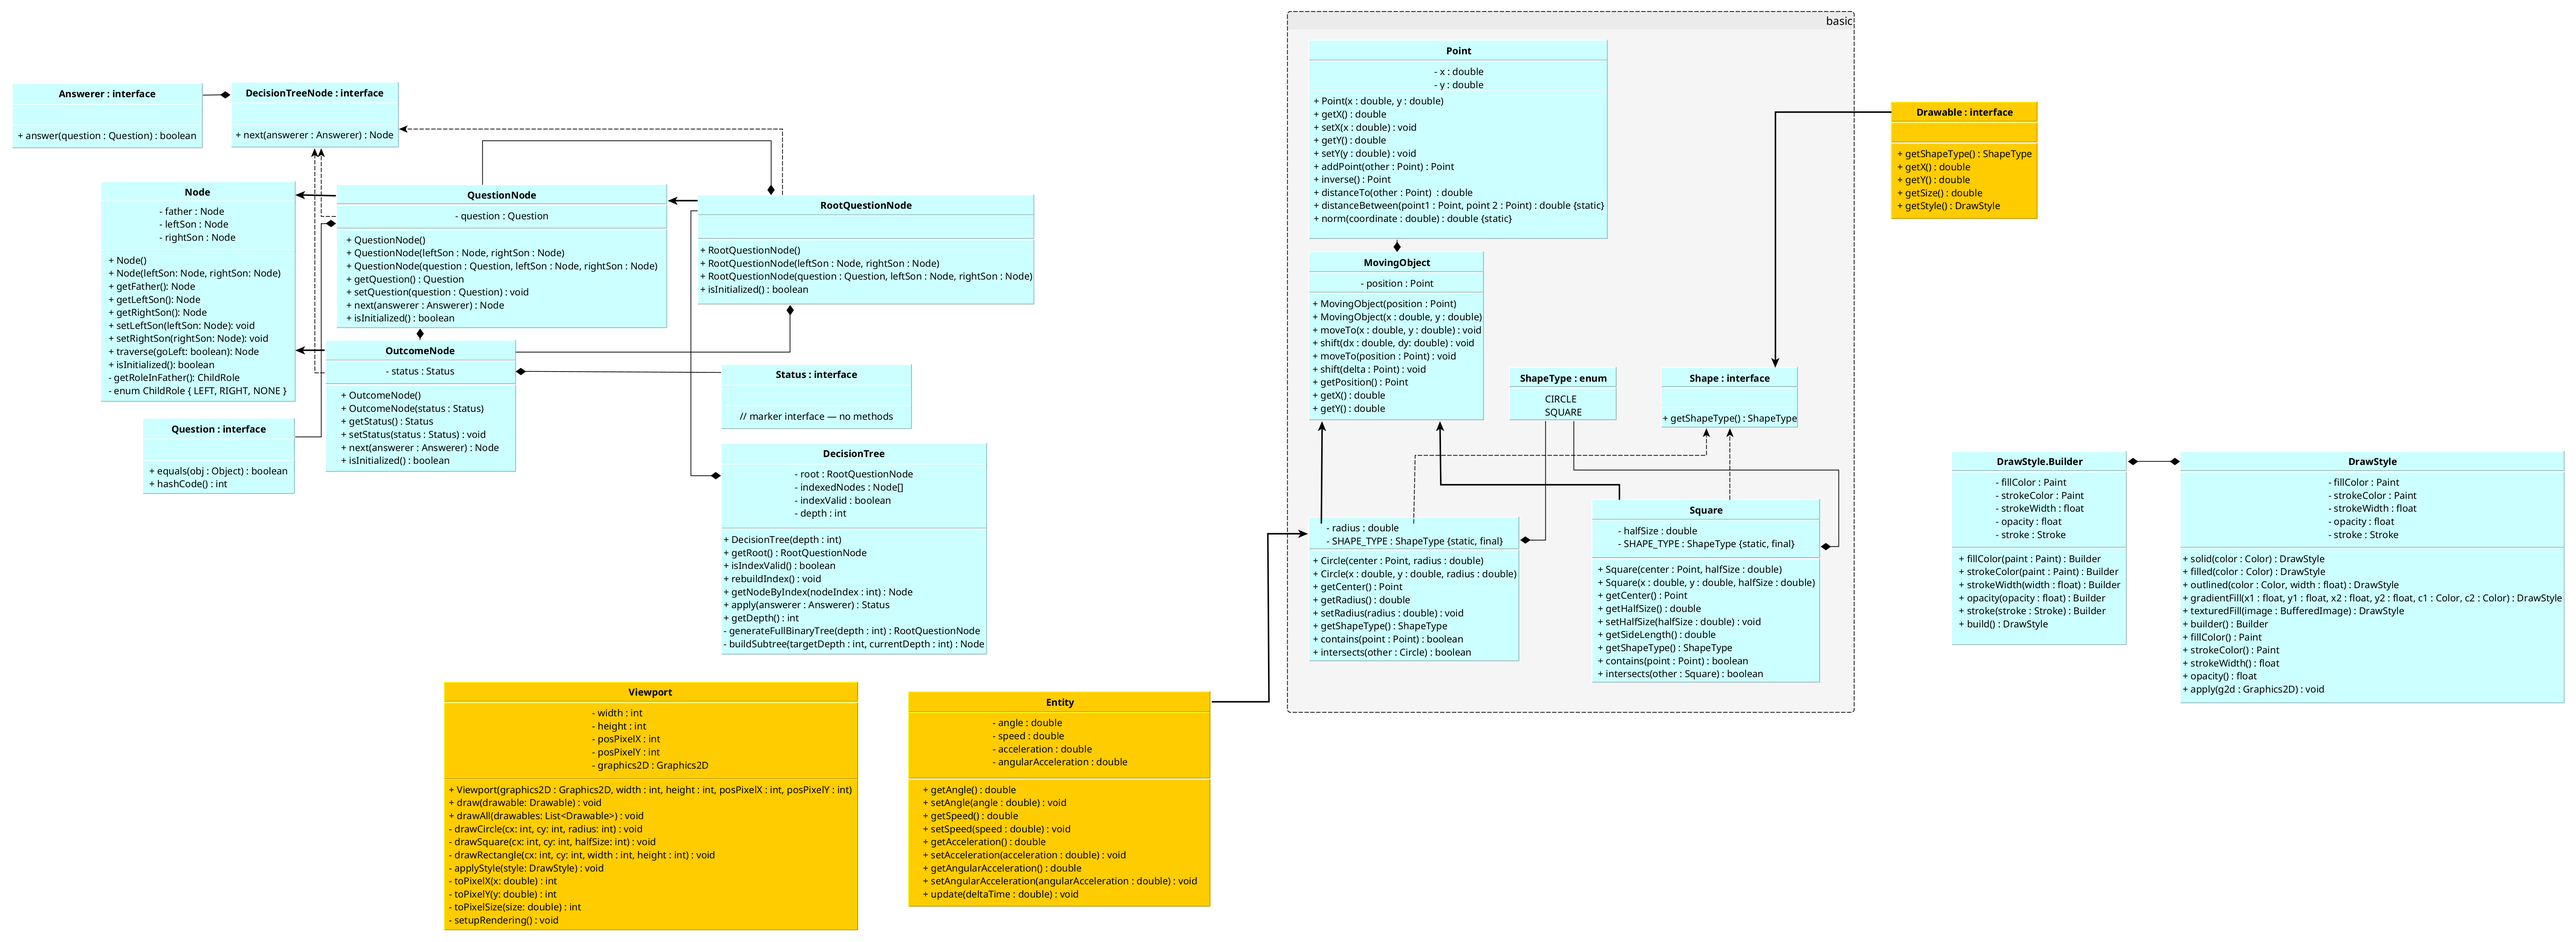
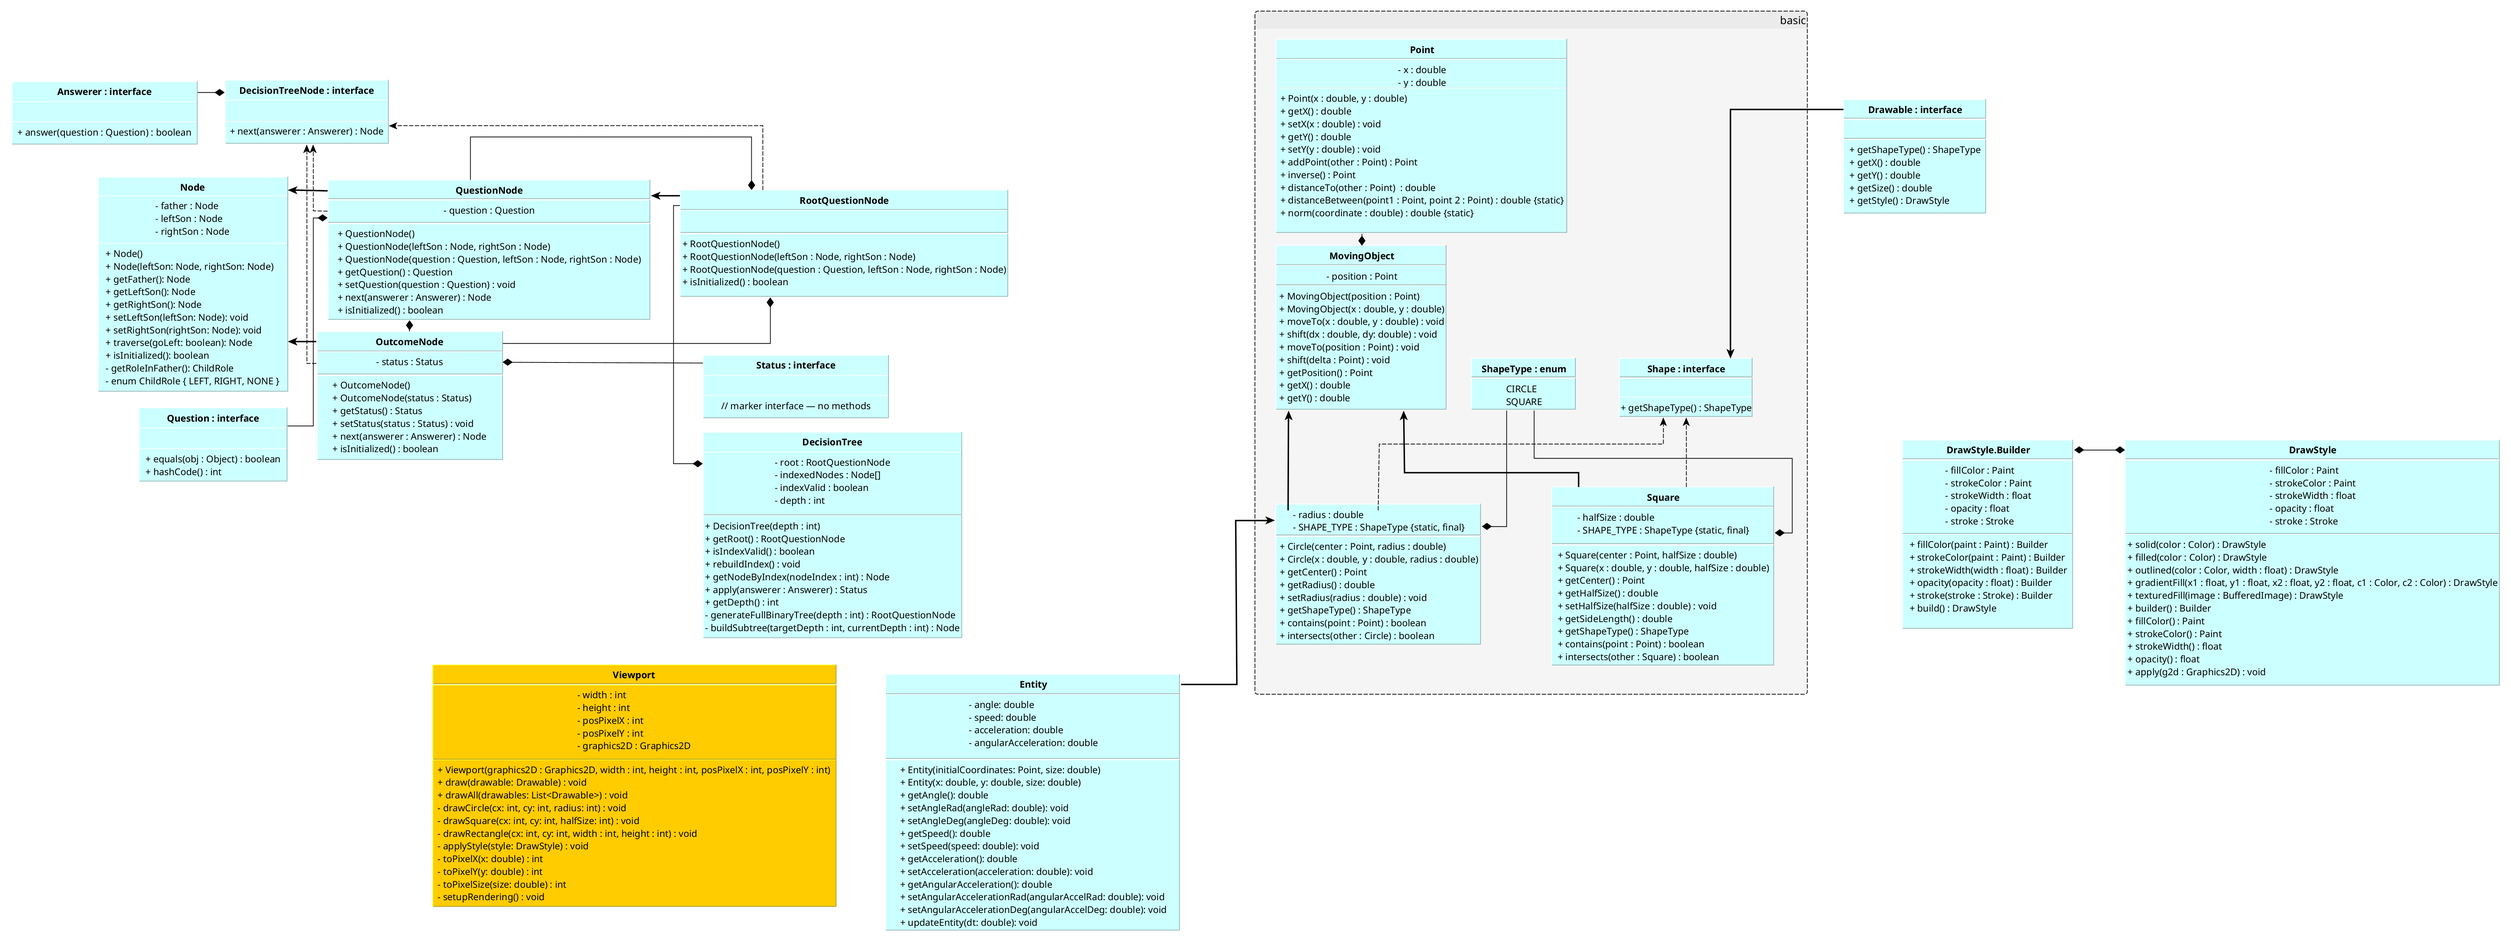
uml

diff --git a/src/main/java/org/jinseisieko/evolution/view/Drawable.java b/src/main/java/org/jinseisieko/evolution/view/Drawable.java
@@ -3,6 +3,8 @@ package org.jinseisieko.evolution.view;
 
 import java.awt.Shape;
 
+import org.jinseisieko.evolution.basic.ShapeType;
+
 /**
  * Represents an object that can be rendered by a {@link Viewport}.
  * <p>
@@ -12,6 +14,13 @@ import java.awt.Shape;
  * @author jinseisieko
  */
 public interface Drawable extends Shape {
+
+     /**
+     * Returns the shape type of the object,
+     *
+     * @return One of the enum elements of ShapeType
+     */
+    ShapeType getShapeType();
     
     /**
      * Returns the X coordinate of the object in logical (simulation) space,
